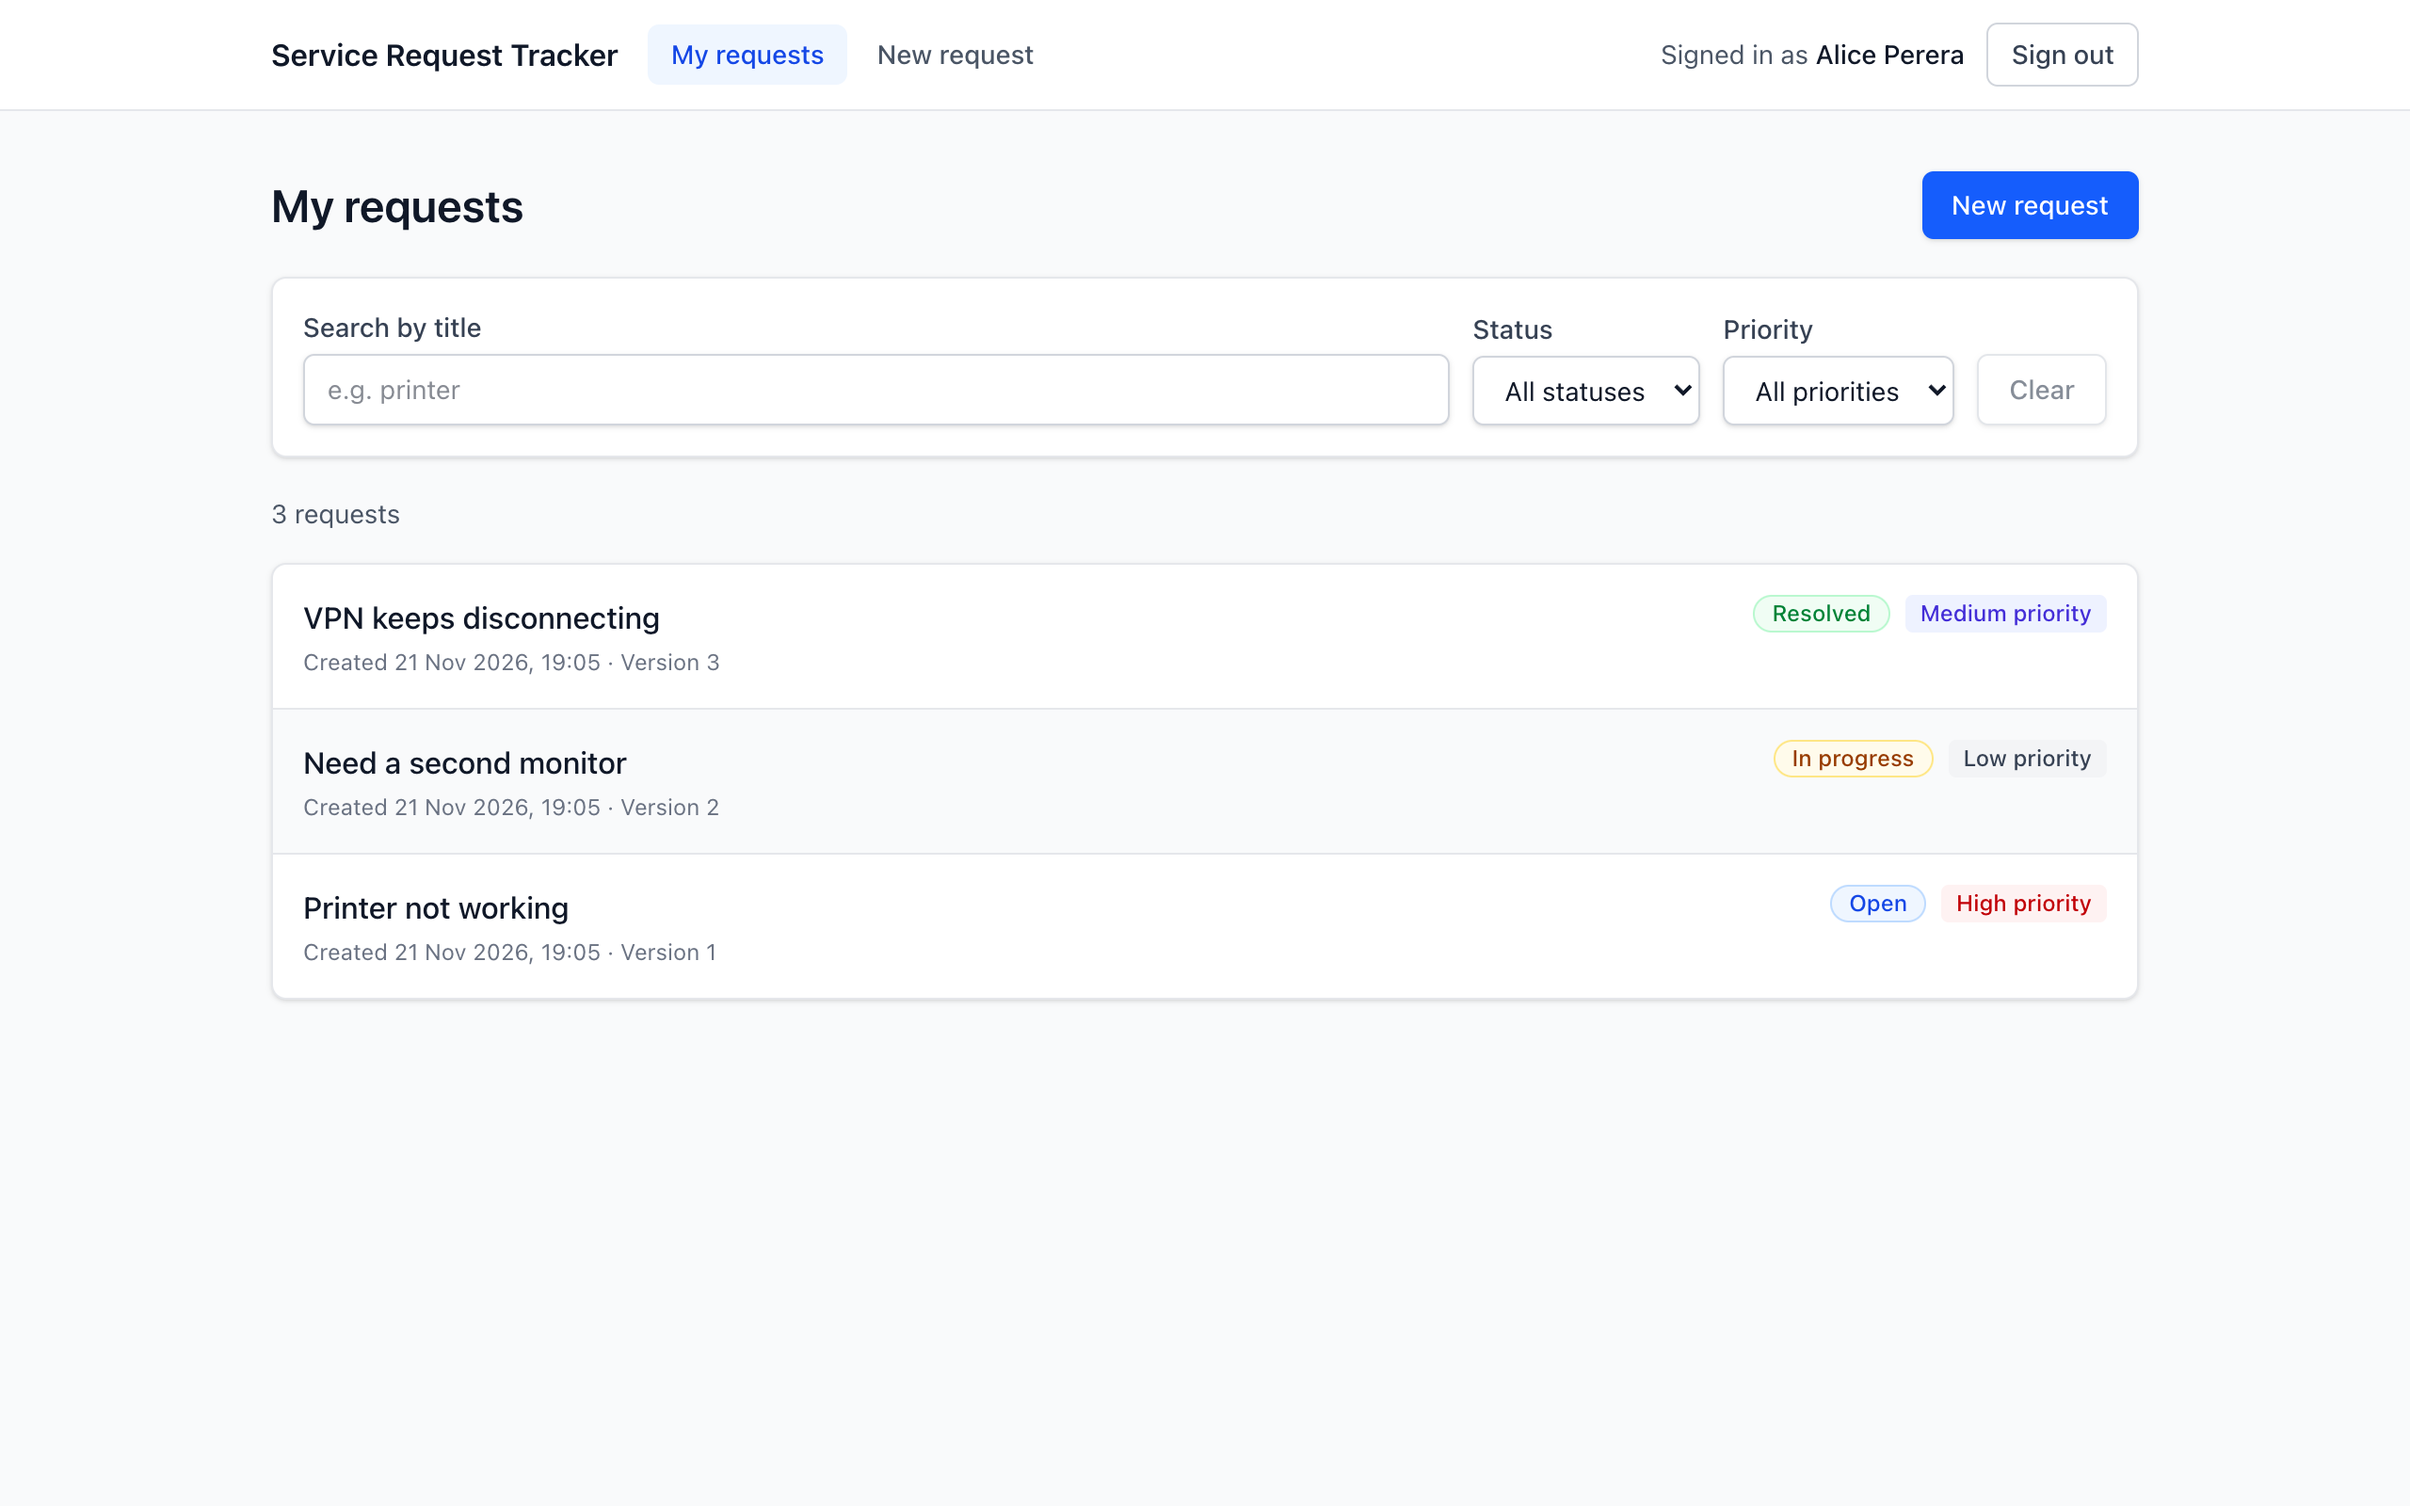
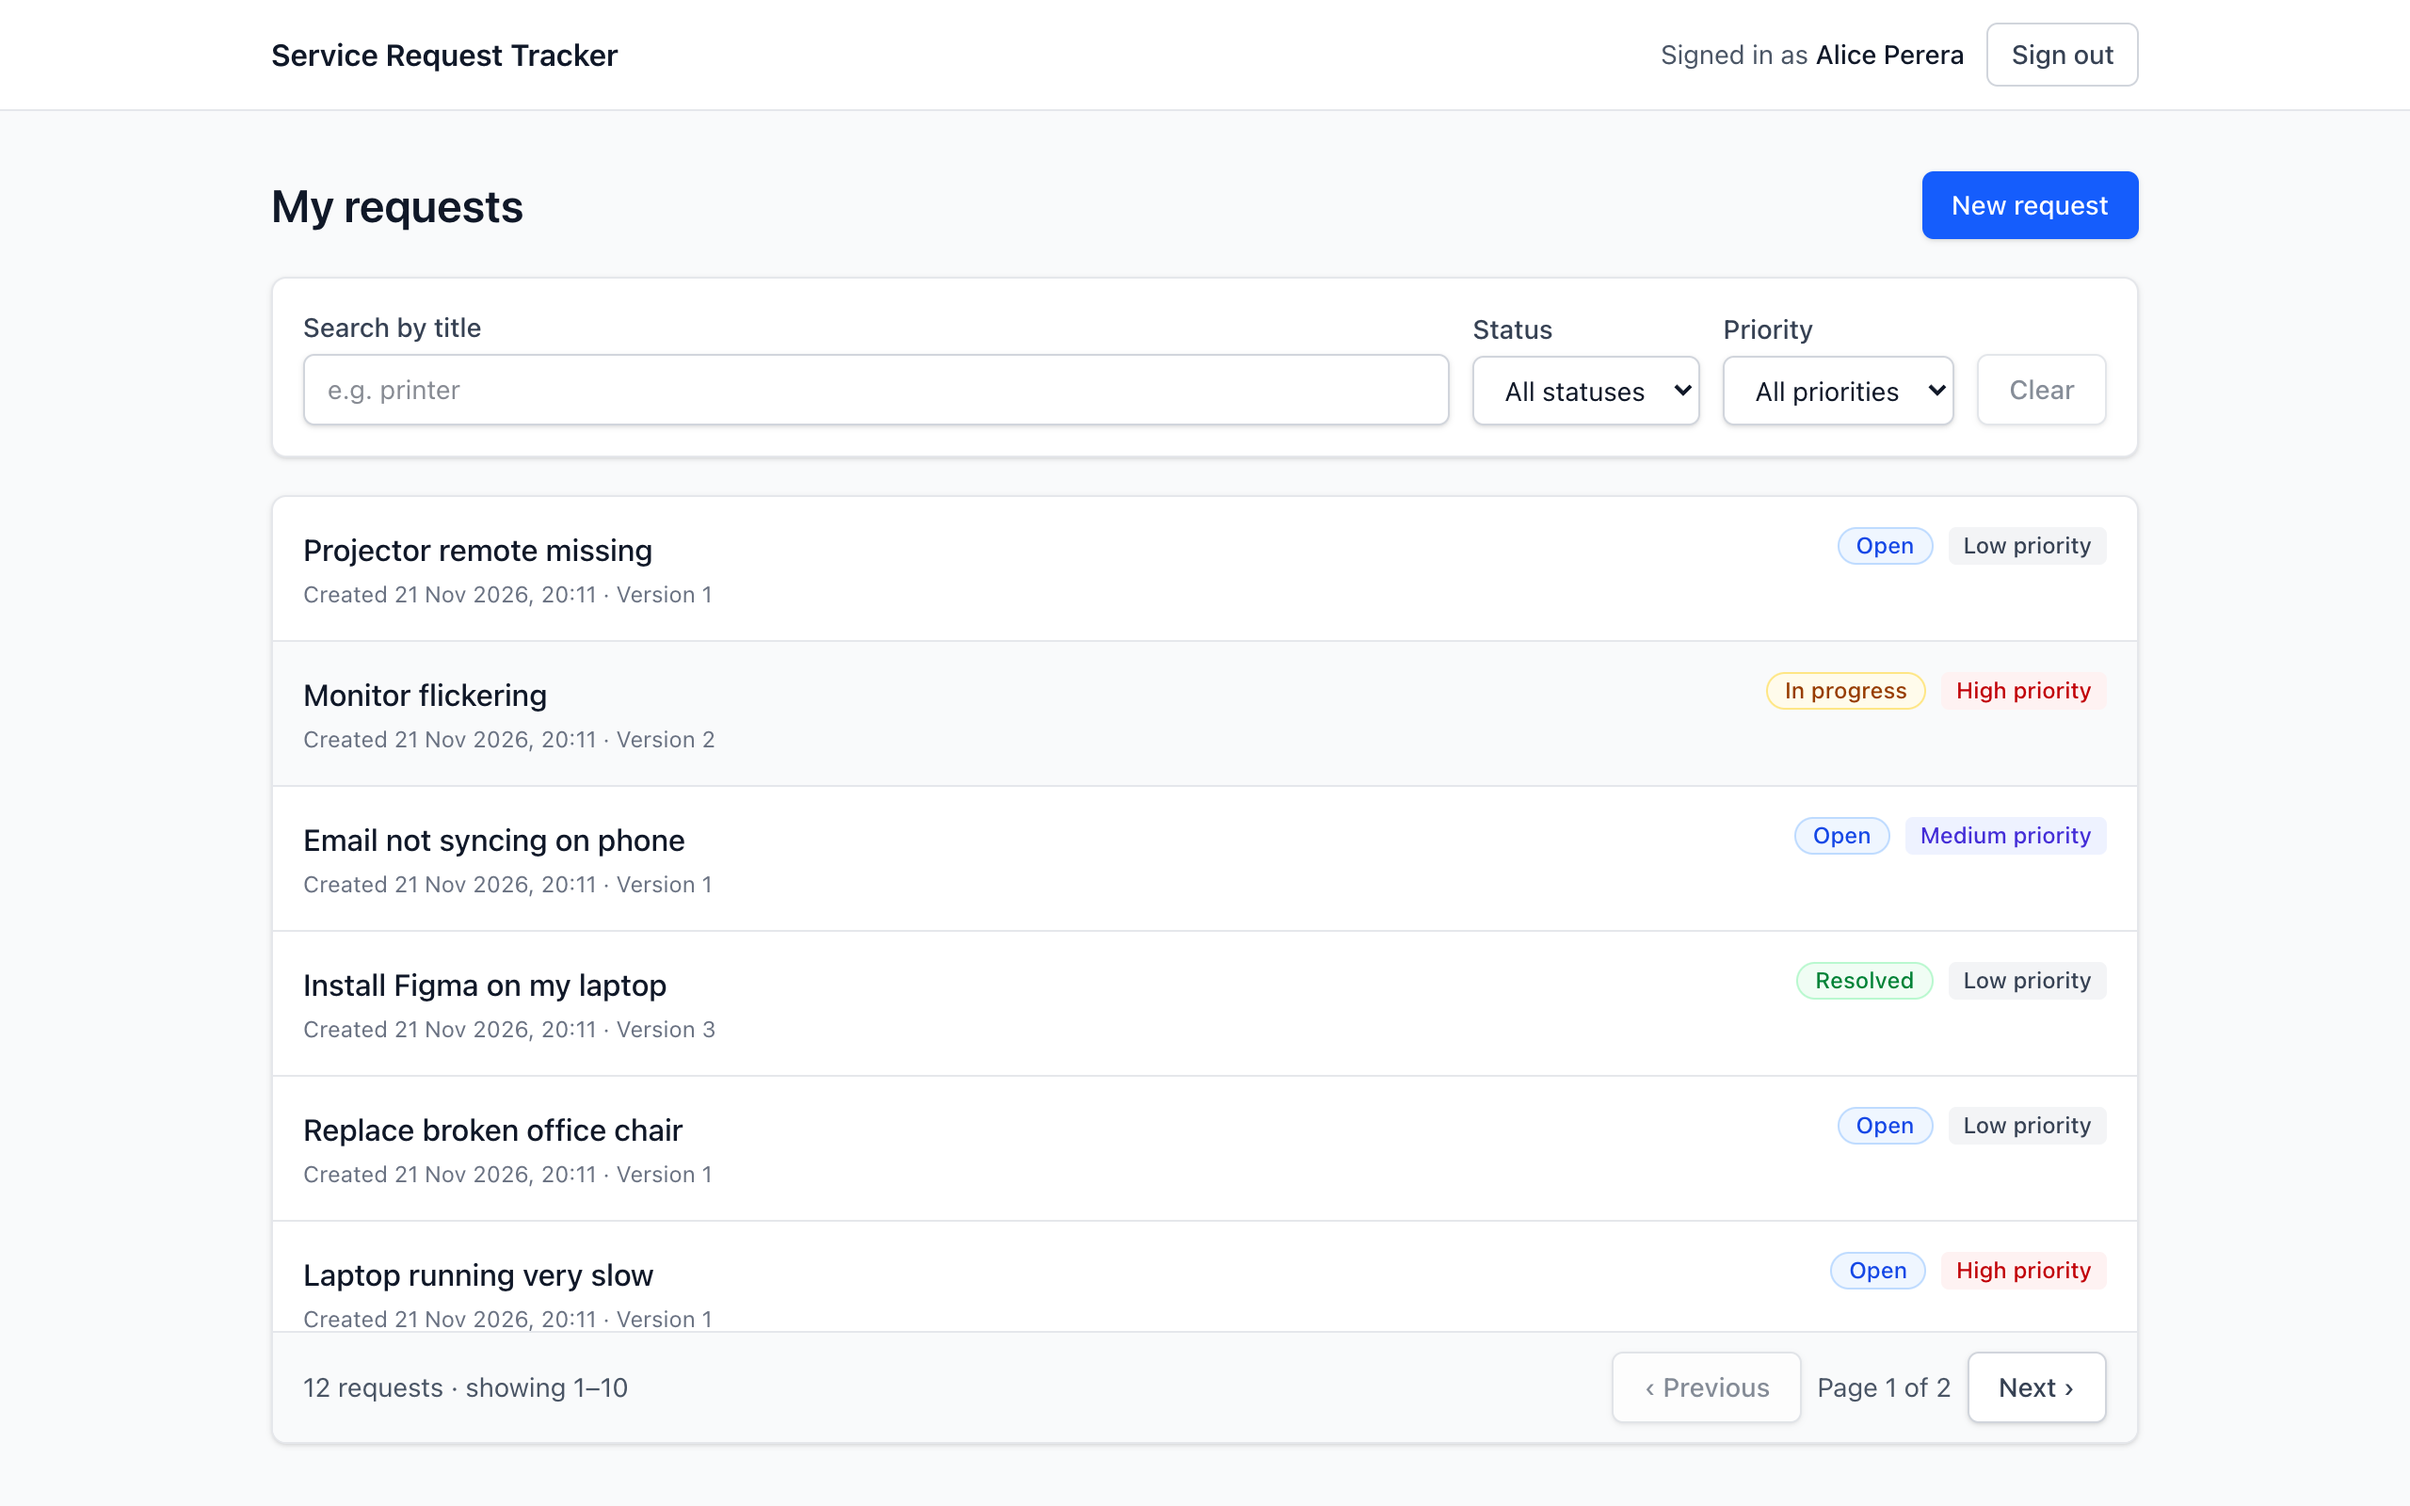
Seed more demo requests and refresh screenshots

diff --git a/backend/database/seeders/DatabaseSeeder.php b/backend/database/seeders/DatabaseSeeder.php
@@ -40,6 +40,27 @@ class DatabaseSeeder extends Seeder
         $this->createRequest($bob, 'Access to shared finance folder', 'Need read access to the finance team shared drive.', RequestPriority::High, [
             [RequestStatus::InProgress, null],
         ]);
+
+        // More requests for Alice, so the list has two pages.
+        $this->createRequest($alice, 'Keyboard keys sticking', 'Several keys on my keyboard stick when typing.', RequestPriority::Low);
+        $this->createRequest($alice, 'Wi-Fi drops in meeting room B', 'The Wi-Fi connection drops every few minutes in room B.', RequestPriority::Medium, [
+            [RequestStatus::InProgress, 'Network team is checking the access point'],
+        ]);
+        $this->createRequest($alice, 'Need access to the HR portal', 'I need access to the HR portal to submit leave requests.', RequestPriority::Medium, [
+            [RequestStatus::InProgress, null],
+            [RequestStatus::Resolved, 'Access granted'],
+        ]);
+        $this->createRequest($alice, 'Laptop running very slow', 'My laptop takes several minutes to open basic apps.', RequestPriority::High);
+        $this->createRequest($alice, 'Replace broken office chair', 'The height adjustment on my chair is broken.', RequestPriority::Low);
+        $this->createRequest($alice, 'Install Figma on my laptop', 'I need Figma installed for the new design project.', RequestPriority::Low, [
+            [RequestStatus::InProgress, null],
+            [RequestStatus::Resolved, 'Installed and licensed'],
+        ]);
+        $this->createRequest($alice, 'Email not syncing on phone', 'Work email stopped syncing on my phone since Monday.', RequestPriority::Medium);
+        $this->createRequest($alice, 'Monitor flickering', 'The second monitor flickers when the laptop is docked.', RequestPriority::High, [
+            [RequestStatus::InProgress, 'Replacement cable ordered'],
+        ]);
+        $this->createRequest($alice, 'Projector remote missing', 'The remote for the projector in room 4 is missing.', RequestPriority::Low);
     }
 
     // Creates a request and applies each status change, so history and version match.

diff --git a/README.md b/README.md
@@ -15,7 +15,7 @@ A compact, secure internal service request tracker. Employees sign in, raise req
 | **Create form with validation errors**<br><img src="screenshots/05-new-request-validation.png" width="420"> | **Request created**<br><img src="screenshots/06-request-created.png" width="420"> |
 | **Request detail (Open)**<br><img src="screenshots/07-request-detail.png" width="420"> | **In progress, with status history**<br><img src="screenshots/08-in-progress-history.png" width="420"> |
 | **Confirm before resolving**<br><img src="screenshots/09-confirm-resolve.png" width="420"> | **Stale update (409): latest version reloaded**<br><img src="screenshots/10-stale-update-409.png" width="420"> |
-| **Another user's request (404)**<br><img src="screenshots/11-not-found.png" width="420"> | **Mobile layout**<br><img src="screenshots/12-mobile.png" width="420"> |
+| **Another user's request (404)**<br><img src="screenshots/11-not-found.png" width="420"> | **Mobile (iPhone 16 Pro Max)**<br><img src="screenshots/12-mobile.png" width="420"> |
 
 ## Repository structure
 
@@ -116,7 +116,7 @@ Created by `php artisan migrate --seed`:
 | Alice Perera | `alice@example.com` | `password` |
 | Bob Fernando | `bob@example.com` | `password` |
 
-Each user has a few sample requests in different statuses. Sign in as one user to confirm you can't see the other user's requests.
+Alice has 12 sample requests in different statuses (two pages), and Bob has 2. Sign in as one user to confirm you can't see the other user's requests.
 
 ## Authentication
 
